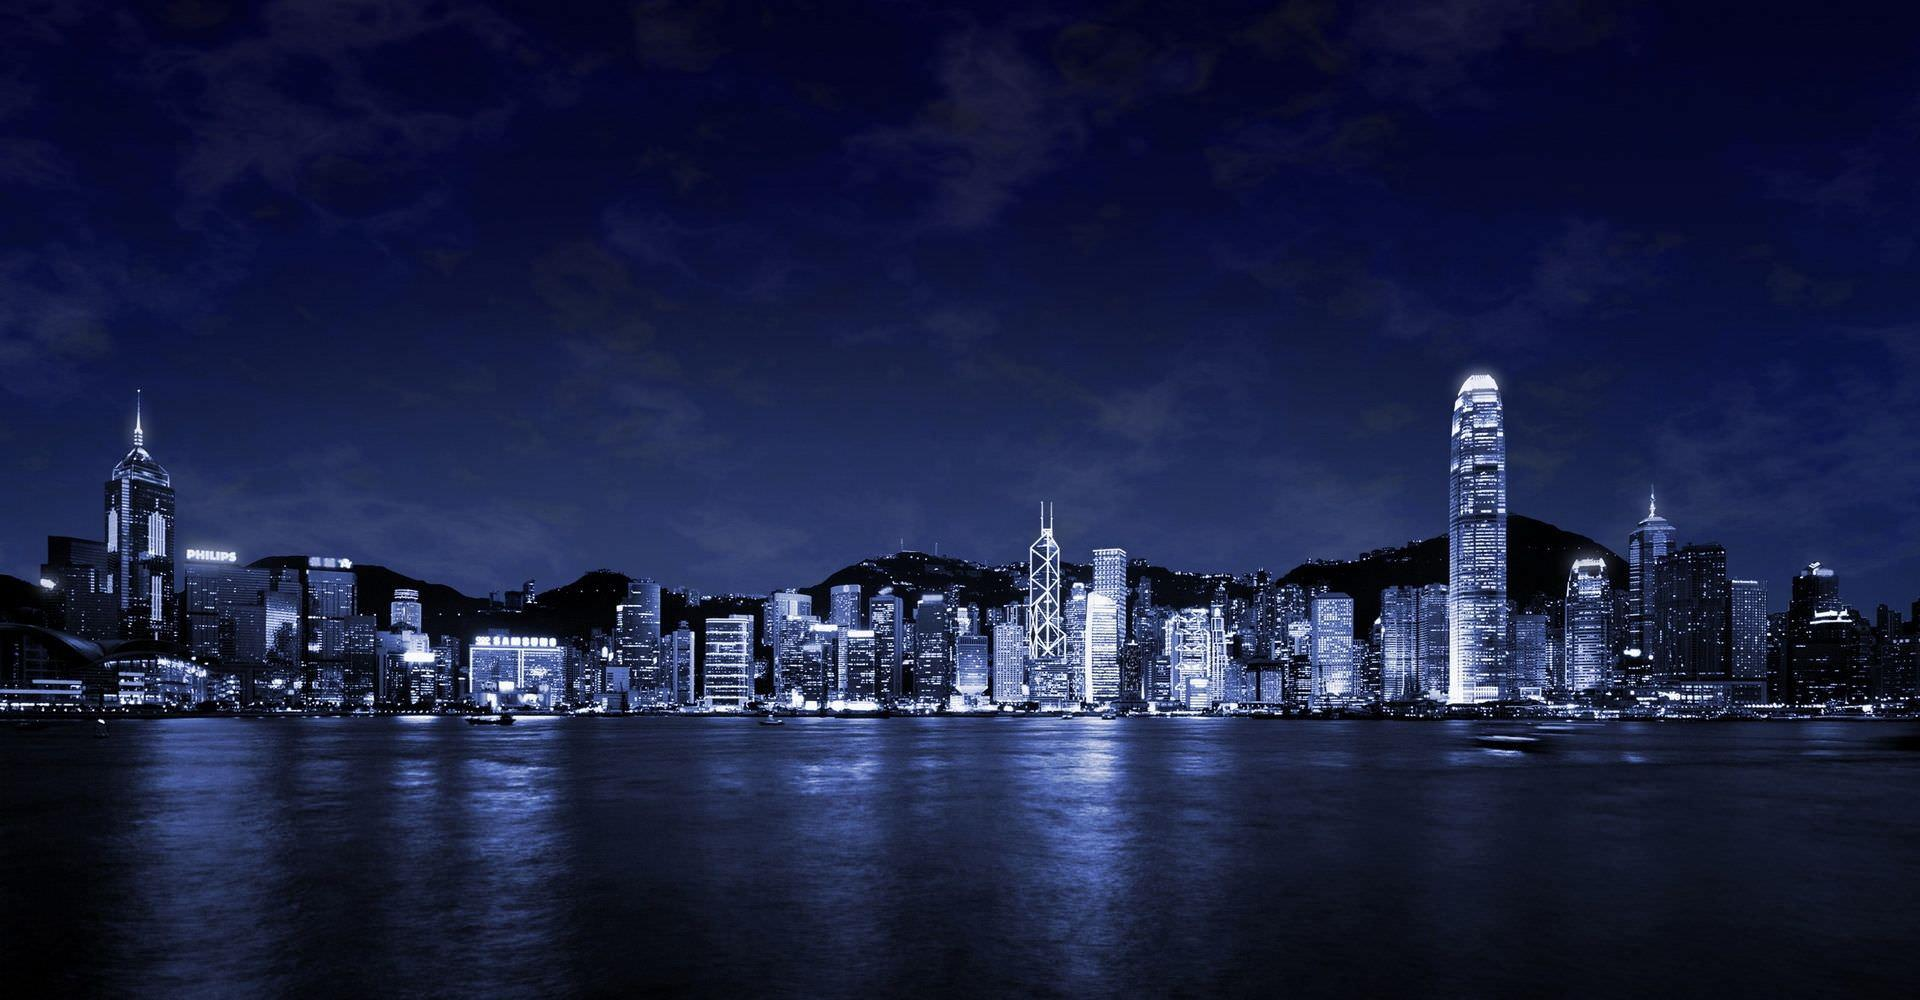
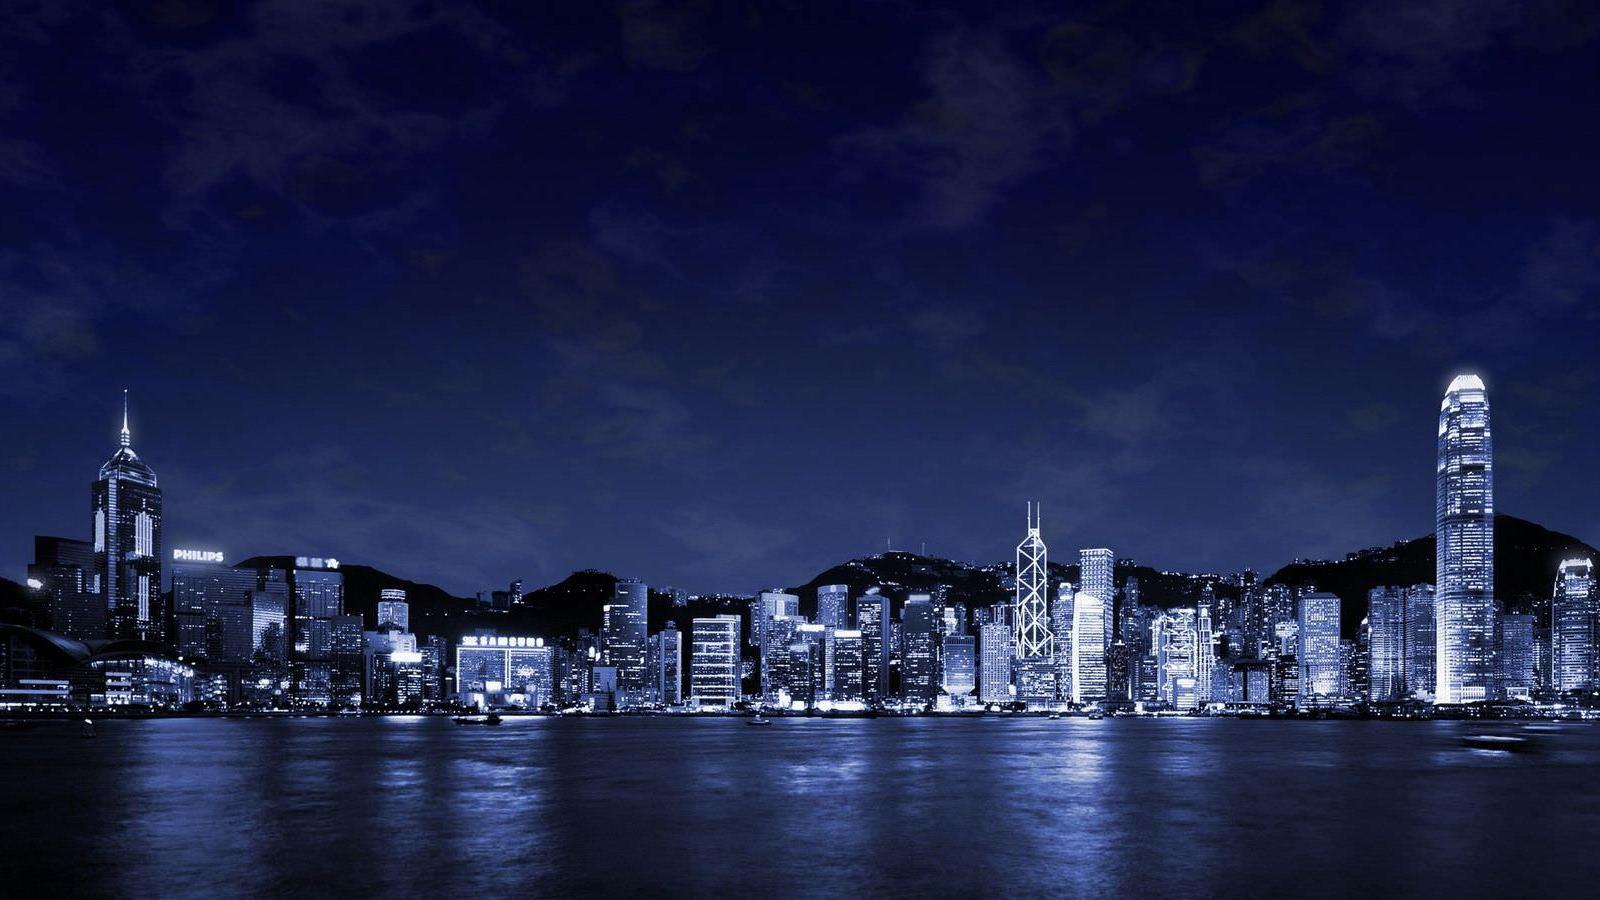
Change layout

Changed region(s): [[0.0, 0.3733, 1.0, 1.0], [0.9688, 0.9956, 1.0, 1.0], [0.9688, 0.9333, 1.0, 0.9644]]

diff --git a/ctrl/common/modalservice.js b/ctrl/common/modalservice.js
@@ -44,20 +44,22 @@
             $scope.login_email_err = function(){return email_nexist || $scope.login_form.login_email.$invalid;}
             $scope.login_pwd_err = function(){return pwd_incorr || $scope.login_form.login_pwd.$invalid;}
             $scope.login_disable = function(){return $scope.login_form.$invalid;}
-            UserHttpService.login($scope.user_in).then(function(res){
-                if(res.success){
+            if($scope.login_form.$valid){
+                UserHttpService.login($scope.user_in).then(function(res){
+                    if(res.success){
+                        // TODO
+                        $window.location.href = "/page/page.html";
+                    }
+                    else{
+                        // TODO
+                        email_nexist = true;
+                        pwd_incorr = true;
+                    }
+                },function(res){
                     // TODO
-                    $window.location.href = "/page/page.html";
-                }
-                else{
-                    // TODO
-                    email_nexist = true;
-                    pwd_incorr = true;
-                }
-            },function(res){
-                // TODO
-                console.log(res);
-            });
+                    console.log(res);
+                });
+            }
         }
         $scope.to_signup = function(){
             $uibModalInstance.dismiss();
@@ -83,11 +85,11 @@
         $scope.signup_pwd_errmsg = function(){
             return $scope.signup_form.signup_pwd.$error.required ? "Password is required" : "At lease 8 characters with 1 letter and 1 number";
         }
+        $scope.signup_email_err= function(){return $scope.signup_form.signup_email.$dirty && (email_exist || $scope.signup_form.signup_email.$invalid);}
+        $scope.signup_name_err= function(){return $scope.signup_form.signup_name.$dirty && (name_exist || $scope.signup_form.signup_name.$invalid);}
+        $scope.signup_pwd_err= function(){return $scope.signup_form.signup_pwd.$dirty && $scope.signup_form.signup_pwd.$invalid;}
+        $scope.signup_disable = function(){return $scope.signup_form.$invalid;}
         $scope.signup_click = function(){
-            $scope.signup_email_err= function(){return email_exist || $scope.signup_form.signup_email.$invalid;}
-            $scope.signup_name_err= function(){return name_exist || $scope.signup_form.signup_name.$invalid;}
-            $scope.signup_pwd_err= function(){return $scope.signup_form.signup_pwd.$invalid;}
-            $scope.signup_disable = function(){return $scope.signup_form.$invalid;}
             UserHttpService.createUser($scope.user_up).then(function(res){
                 if(res.success){
                     // TODO

diff --git a/index.html b/index.html
@@ -28,7 +28,15 @@
         <div class="index-container">
             <p style="font-size: 64px;">XxxX</p><br>
             <p style="font-size: large;">fosdfsdfntsisdfdsdadfoisjhdf</p>
-            <button class="btn btn-lg btn-primary mt-5" type="button" ng-click="to_login()">Login</button>
+            <div class="input-group input-group-lg pt-5">
+                <div class="input-group-prepend">
+                    <span class="input-group-text fa fa-search"></span>
+                </div>
+                <input class="form-control" type="text" placeholder="Search by City" name="searchbar">
+                <div class="input-group-append">
+                    <button class="btn btn-warning" ng-click="to_aptlist()"><i class="fa fa-chevron-right"></i></button>
+                </div>
+            </div>
         </div>
         <script src="ctrl/common/httpservice.js"></script>
         <script src="ctrl/common/modalservice.js"></script>

diff --git a/ctrl/index.js b/ctrl/index.js
@@ -2,7 +2,7 @@
     angular.module('app', ['modalservice'])
         .controller('index_ctrl', IndexController);
     
-    function IndexController($scope, ModalService){
+    function IndexController($scope, $window, ModalService){
         $scope.navbutton1 = "Log in";
         $scope.navbutton2 = "Sign up";
         $scope.to_login = function(){
@@ -10,6 +10,9 @@
         }
         $scope.to_signup = function(){
             ModalService.open_signup();
+        }
+        $scope.to_aptlist = function(){
+            $window.location.href = "/page/page.html";
         }
     }
 })();

diff --git a/lib/css/style.css b/lib/css/style.css
@@ -1,4 +1,8 @@
 
+.btn-warning{
+    background-color: #ffa500;
+    border-color: #ffa500;
+}
 .navbar .navbar-header{
     margin-left: 20px;
 }
@@ -12,13 +16,12 @@
 
 .index-back{
     background: no-repeat center center fixed;
-    background-image: url(../../src/3.jpg);
+    background-image: url(../../src/1.jpg);
     background-size: cover;
 }
 .index-container{
     color: #fff;
-    padding-left: 20%;
-    padding-right: 20%;
+    padding: 0 30%;
     margin-top: 180px;
     text-align: center;
 }
